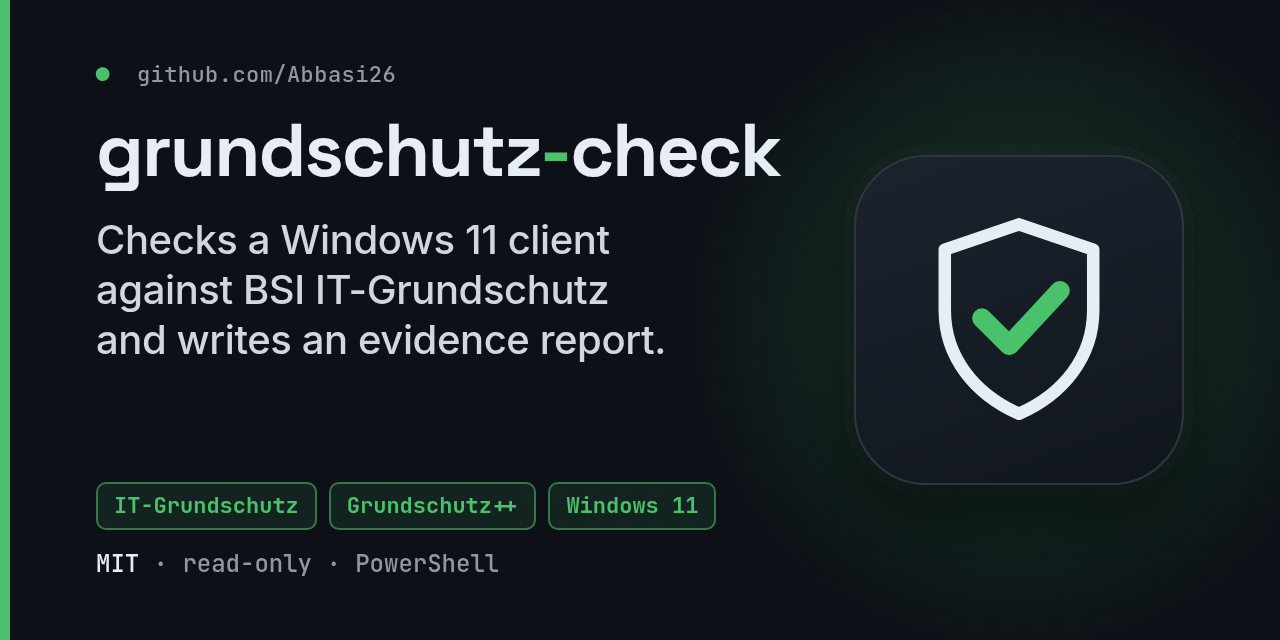
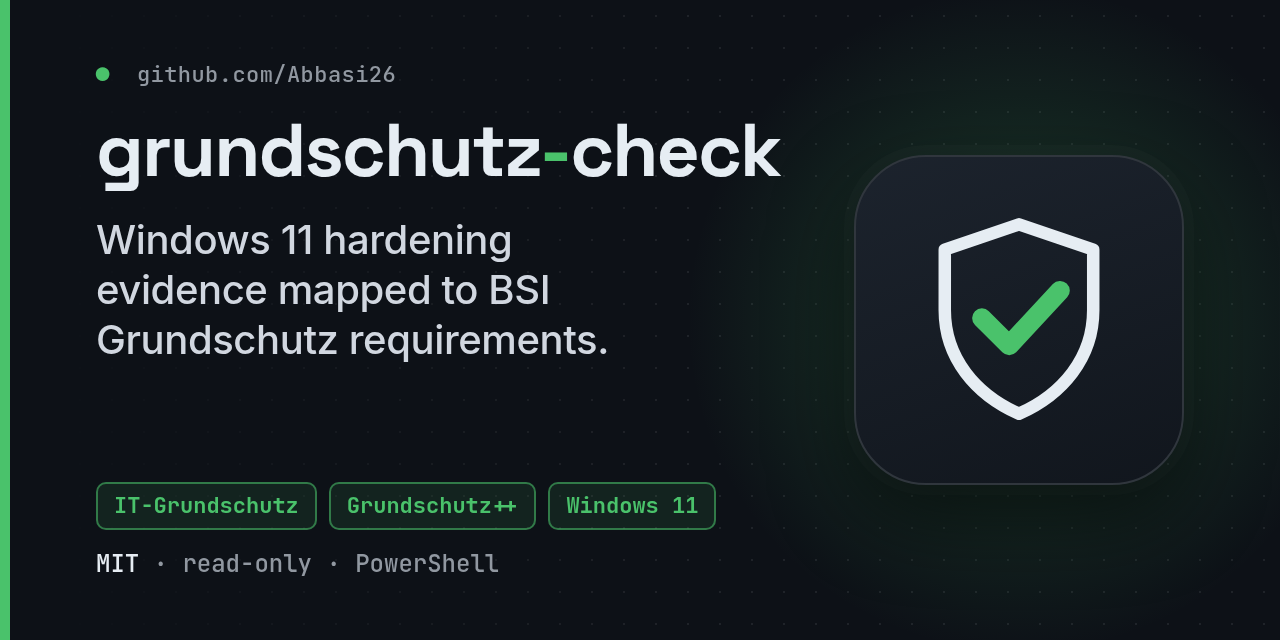
docs: update README header and hero from revised assets
Replaces the hero image, social preview and README header block with the revised design; the original title and the rest of the README are unchanged.

Changed region(s): [[0.0625, 0.3438, 0.5312, 0.5625]]

diff --git a/README.md b/README.md
@@ -6,7 +6,7 @@
   </picture>
 </p>
 
-<p align="center">Checks a Windows 11 client against BSI IT-Grundschutz and writes an evidence report.</p>
+<p align="center">Windows 11 hardening evidence mapped to BSI Grundschutz requirements.</p>
 
 <p align="center">
   <img src="docs/assets/readme-hero.png" width="800" alt="Terminal output of Invoke-GrundschutzCheck.ps1 -Demo: pass=44 fail=19 of 63 checks on fictional evidence, with failing checks, their BSI requirement, expected and actual values.">
